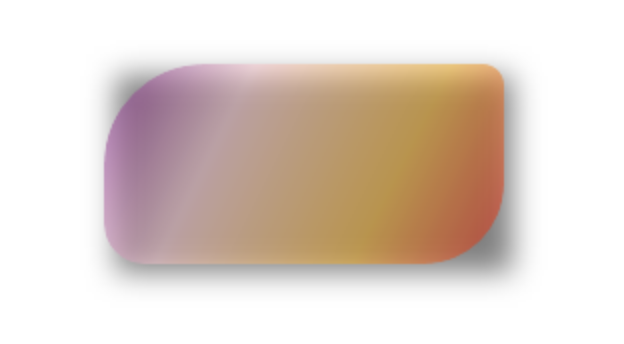
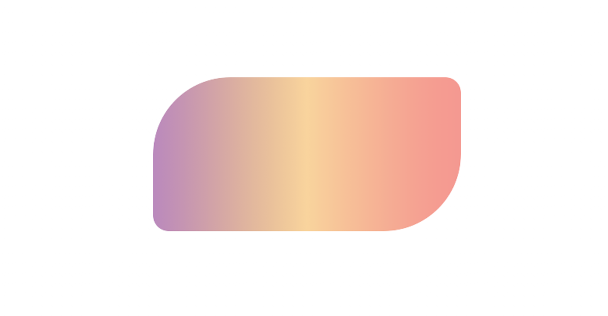
commit for image difference

diff --git a/docs/whats-new/dotnet-11.md b/docs/whats-new/dotnet-11.md
@@ -160,6 +160,26 @@ In .NET 11 Preview 4, the Android handlers for several core controls use Materia
 
 :::image type="content" source="../user-interface/controls/media/boxview/boxview-linear-fill.png" alt-text="Screenshot of a BoxView painted with a linear gradient brush.":::
 
+Or a <xref:Microsoft.Maui.Controls.RadialGradientBrush>:
+
+```xaml
+<BoxView Opacity="0.5"
+         WidthRequest="200"
+         HeightRequest="100"
+         HasShadow="true"
+         HorizontalOptions="Center"
+         VerticalOptions="Center">
+    <BoxView.Fill>
+        <RadialGradientBrush Center="0.5,0.5" Radius="0.5">
+            <GradientStop Color="Yellow" Offset="0.0" />
+            <GradientStop Color="Green" Offset="1.0" />
+        </RadialGradientBrush>
+    </BoxView.Fill>
+</BoxView>
+```
+
+:::image type="content" source="../user-interface/controls/media/boxview/boxview-radial-fill.png" alt-text="Screenshot of a BoxView painted with a radial gradient brush.":::
+
 :::moniker-end
 
 ### LongPressGestureRecognizer

diff --git a/docs/user-interface/controls/boxview.md b/docs/user-interface/controls/boxview.md
@@ -67,7 +67,7 @@ The following XAML example fills a <xref:Microsoft.Maui.Controls.BoxView> with a
 <BoxView Opacity="0.5"
          WidthRequest="200"
          HeightRequest="100"
-         HasShadow="true"
+         CornerRadius="60,20,20,60"
          HorizontalOptions="Center"
          VerticalOptions="Center">
     <BoxView.Fill>
@@ -84,13 +84,16 @@ The following XAML example fills a <xref:Microsoft.Maui.Controls.BoxView> with a
 </BoxView>
 ```
 
+In this example, the <xref:Microsoft.Maui.Controls.BoxView> is painted with a purple-to-red horizontal linear gradient:
+
+:::image type="content" source="media/boxview/boxview-linear-fill.png" alt-text="Screenshot of a BoxView painted with a linear gradient brush.":::
+
 Or a <xref:Microsoft.Maui.Controls.RadialGradientBrush>:
 
 ```xaml
 <BoxView Opacity="0.5"
          WidthRequest="200"
          HeightRequest="100"
-         HasShadow="true"
          HorizontalOptions="Center"
          VerticalOptions="Center">
     <BoxView.Fill>